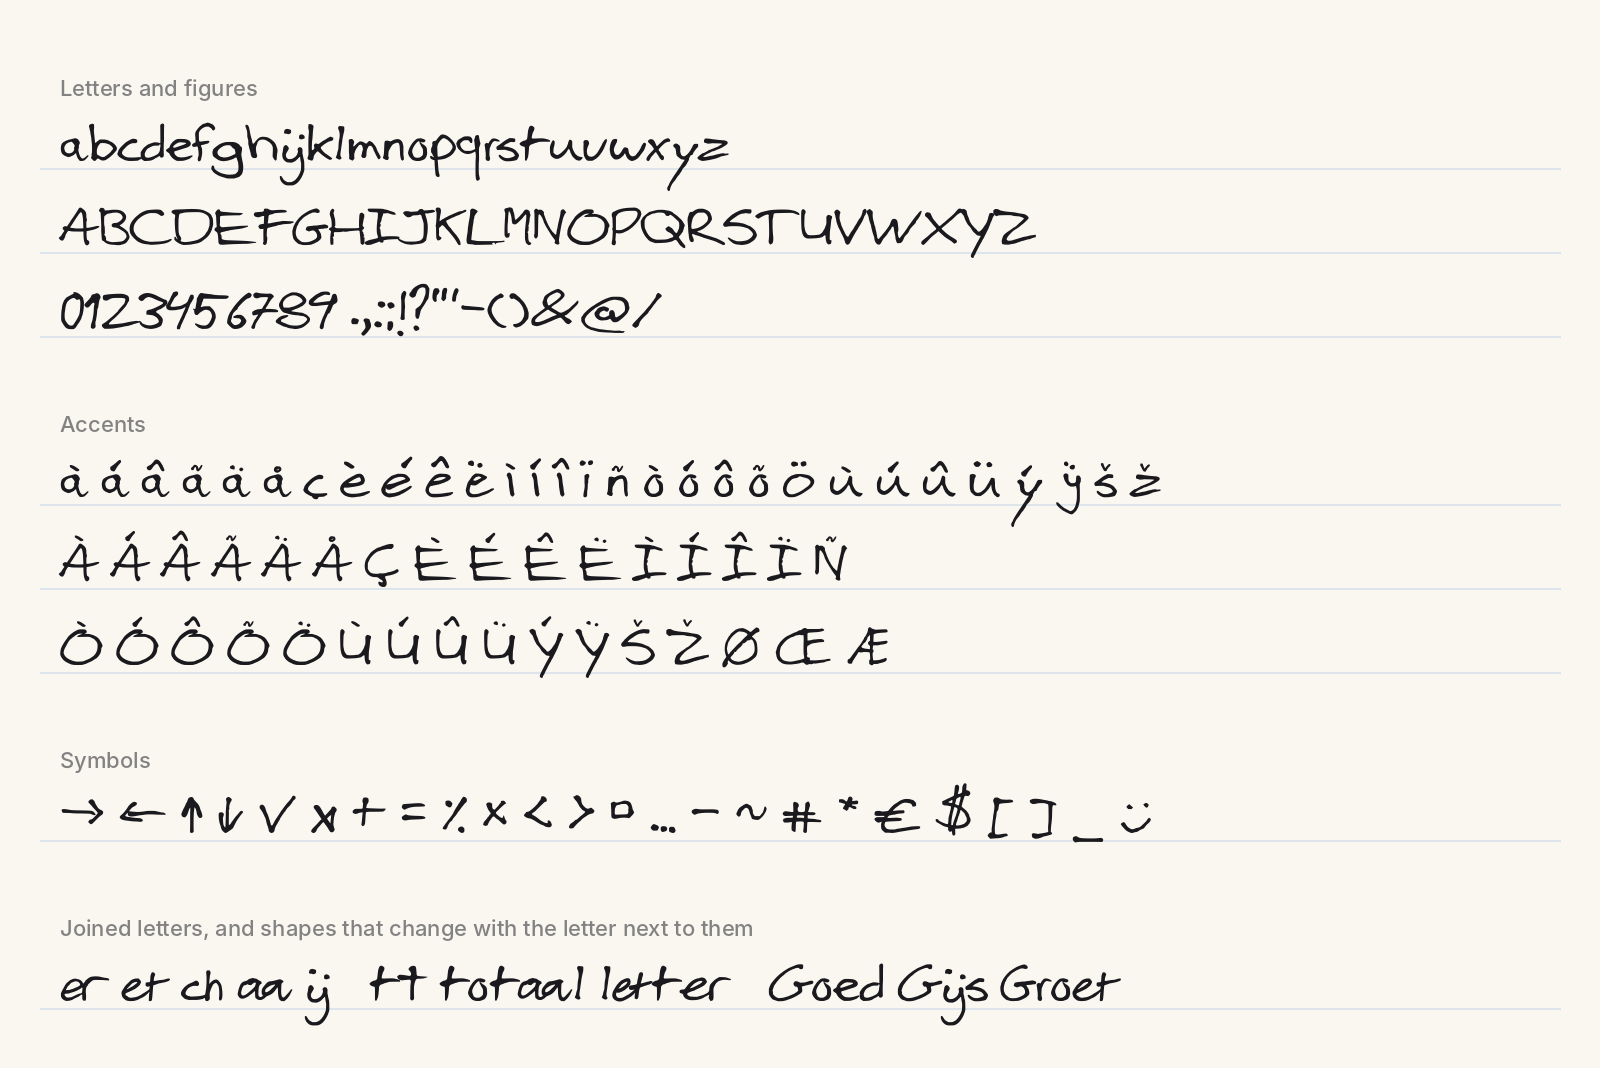
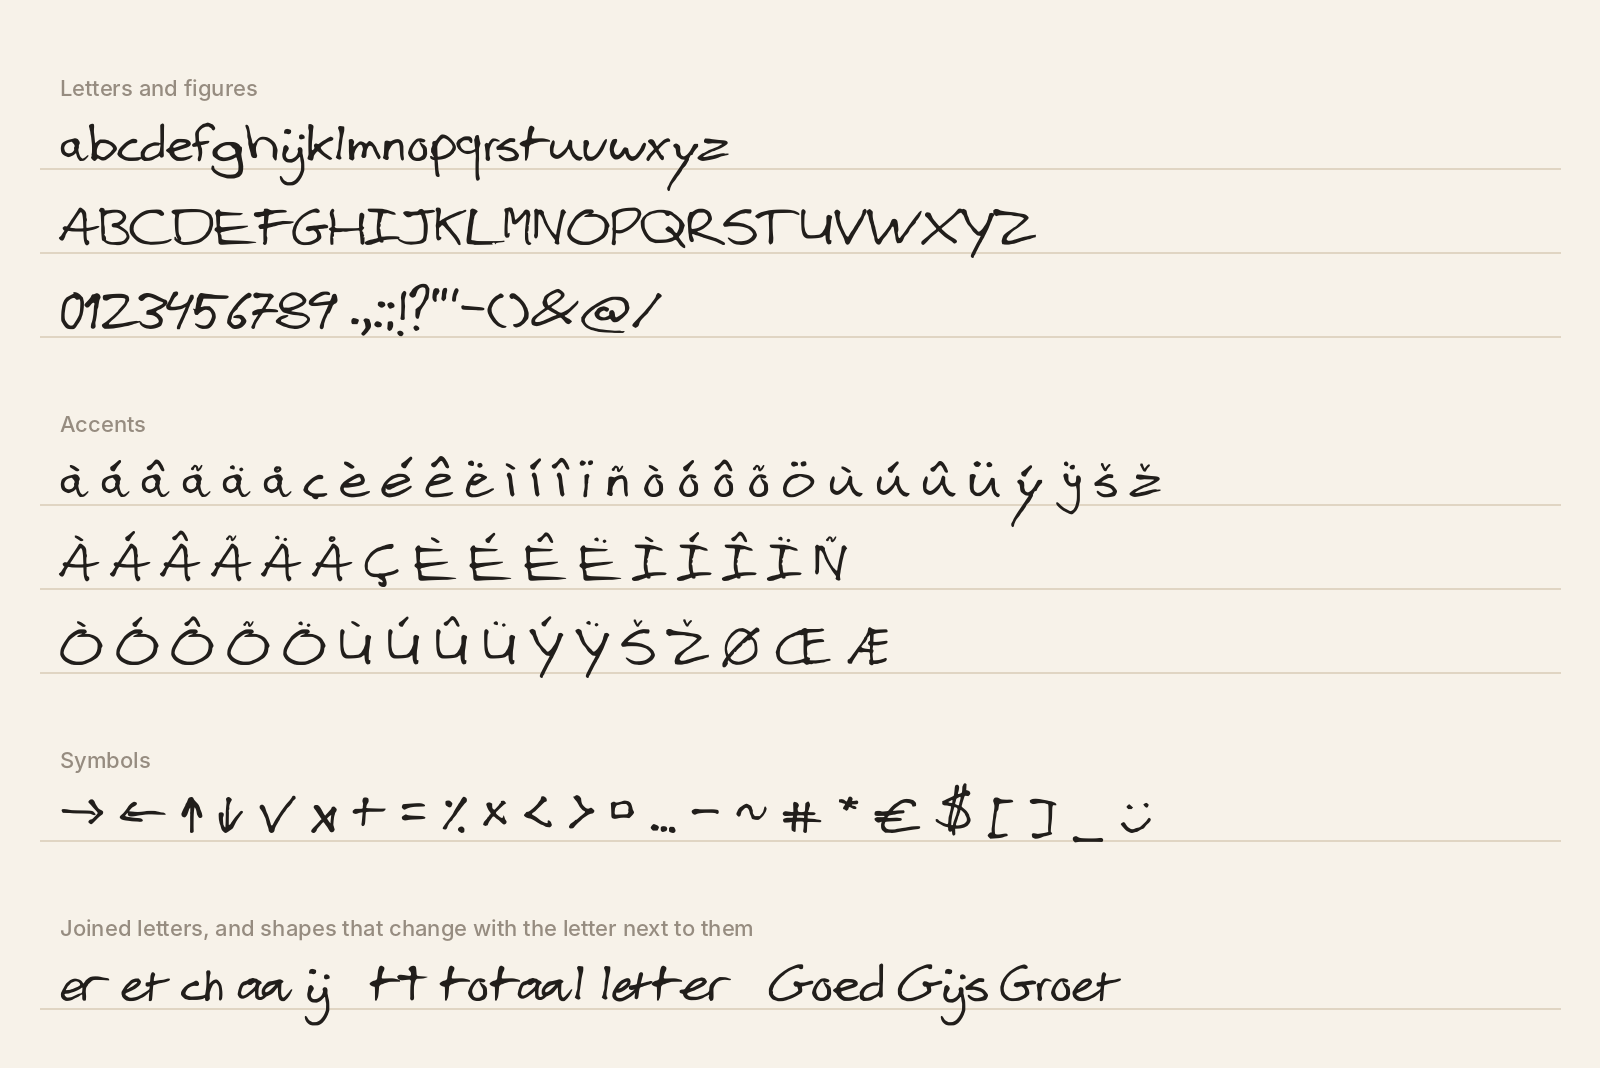
Specimen: an English note as running text, on warm paper with a warm rule
Claude-Session: https://claude.ai/code/session_0177kWNPQr496jmLYs75gyw6

diff --git a/scripts/specimen.py b/scripts/specimen.py
@@ -2,7 +2,8 @@
 from PIL import Image, ImageDraw, ImageFont
 
 FONT = 'fonts/otf/PDKHand-Edding141F.otf'
-INK, PAPER, RULE, MUTED = (25, 25, 30), (250, 247, 240), (222, 228, 236), (130, 130, 130)
+# Warm paper with a warm rule, like a notebook page. Ink is a warm near-black, like the Edding.
+INK, PAPER, RULE, MUTED = (33, 30, 27), (247, 242, 233), (224, 213, 195), (150, 140, 128)
 LABEL = ImageFont.truetype('/usr/share/fonts/opentype/inter/Inter-Medium.otf', 22) if __import__('os').path.exists('/usr/share/fonts/opentype/inter/Inter-Medium.otf') else ImageFont.load_default()
 
 
@@ -11,7 +12,9 @@ def sheet(path, lines, size=52, width=1600, lead=84):
     im = Image.new('RGB', (width, h), PAPER); d = ImageDraw.Draw(im)
     y = 30
     for kind, text in lines:
-        if kind == 'label':
+        if kind == 'gap':
+            d.line([(40, y + int(size * 1.05)), (width - 40, y + int(size * 1.05))], fill=RULE, width=2)
+        elif kind == 'label':
             d.text((60, y + lead - 40), text, font=LABEL, fill=MUTED)
         else:
             f = ImageFont.truetype(FONT, size, layout_engine=ImageFont.Layout.RAQM)
@@ -35,12 +38,23 @@ sheet('specimen/characters.png', [
     ('label', 'Joined letters, and shapes that change with the letter next to them'),
     ('text', 'er et ch aa ij   tt totaal letter   Goed Gijs Groet'),
 ])
-sheet('specimen/feedback.png', [
-    ('text', 'Hé Sam,'),
-    ('text', 'De opbouw is duidelijk, maar de knop valt weg.'),
-    ('text', '✓ De kop staat goed, mooi rustig'),
-    ('text', '✗ Knop mag 8px groter → beter klikbaar'),
-    ('text', '• Check ook even de tekst op mobiel'),
-    ('text', 'Groetjes, Pieter ◡̈'),
-], size=56, lead=92)
+def wrap(text, font, width):
+    lines, line = [], ''
+    for word in text.split(' '):
+        test = (line + ' ' + word).strip()
+        if font.getlength(test) <= width or not line: line = test
+        else: lines.append(line); line = word
+    return lines + [line]
+
+
+NOTE = ['Hi Sam,',
+        'Nice start. The page reads calm and the title works well. I would make the button a little '
+        'bigger, so a thumb finds it without looking. The text on a phone is worth a second check. '
+        'Shall we go over it together on Thursday?',
+        'Pieter ◡̈']
+f = ImageFont.truetype(FONT, 56, layout_engine=ImageFont.Layout.RAQM)
+note = []
+for para in NOTE:
+    note += [('text', l) for l in wrap(para, f, 1440)] if para else [('gap', '')]
+sheet('specimen/feedback.png', note, size=56, lead=92)
 print('specimen: characters.png, feedback.png')

diff --git a/README.md b/README.md
@@ -2,7 +2,7 @@
 
 Pieter de Kroon's handwriting as a font. Written on paper, photographed, and turned into outlines by the scripts in this repository. Every pen becomes a style of the family; the first is Edding 141F. Part of the [PDK design system](https://design.pieterdekroon.com), where it belongs to the brand: all rights reserved.
 
-![Feedback written in PDK Hand](specimen/feedback.png)
+![A note written in PDK Hand](specimen/feedback.png)
 
 ## Files
 
